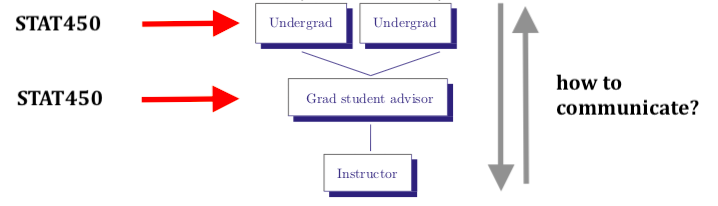
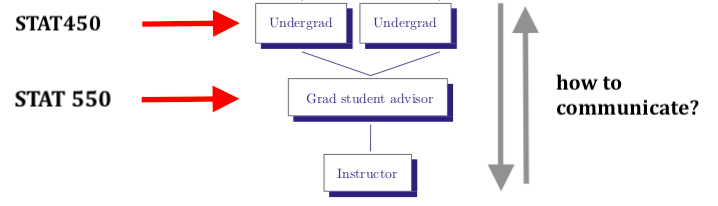
typos

Changed region(s): [[0.0, 0.4369, 0.1532, 0.5243]]

diff --git a/S450_550_model.html b/S450_550_model.html
@@ -21,13 +21,13 @@ class: center, middle, inverse, title-slide
 - **STAT450: Case Studies in Statistics**
   - real case study
   
-  - statistics &amp; computational &amp; communication
+  - statistical &amp; computational &amp; communication skills
 
   
 - **STAT550: Techniques for Statistical Consulting**
   - early involvement in Consulting
   
-  - statistics &amp; computational &amp; communication
+  - statistical &amp; computational &amp; communication skills
   - mentoring and/or supervisory role
   
 - **A joint model: real consulting project**
@@ -149,7 +149,7 @@ class: center, middle, inverse, title-slide
 
 - to experience a **full** and **open-ended** data analysis process 
 
-- to build collaborative relationships with peers
+- to build collaborative relationships with peers and researchers
 
 
 ---
@@ -174,9 +174,13 @@ class: center, middle, inverse, title-slide
 - Many in-class and out-of-class discussions with the groups
 - Weekly seminars to address statistical and computational challenges
 
+
+
 ## Is this enough??
 
-- Probably not but expensive to get additional resourses
+--
+
+- Probably not, but it's difficult to get additional resourses
 
 - Extremely time-consuming course for a single instructor 
 
@@ -189,6 +193,8 @@ class: center, middle, inverse, title-slide
 ---
 ## STAT550: Techniques for Statistical Consulting
 
+--
+
 **Objectives**
   - promote an early involvement in statistical consulting
   
@@ -198,9 +204,9 @@ class: center, middle, inverse, title-slide
   - help students to  
     - use and sharpen their statistical and computational skills
     
-    - to improve their communication skills
+    - improve their communication skills
 
-    - to build a portfolio for future reference
+    - build a portfolio for future reference
 
 ---
 &lt;img src="gibbs_model_ed.png" style="width: 85%" /&gt;
@@ -217,7 +223,7 @@ class: center, middle, inverse, title-slide
 - both classes work on a real data case study
 
 - grad students mentor and supervised undergraduate students
-- undergraduate students in-charge of most of the work 
+- undergraduate students are in-charge of most of the work 
 ---
 
 ## Is this &lt;font color=red&gt;DATA SCIENCE &lt;/font&gt;?
@@ -255,7 +261,7 @@ class: center, middle, inverse, title-slide
 
 ### &lt;font color=red&gt;**Can/Should**&lt;/font&gt; this be accomplished in Consulting courses??
 ---
-##Key componets of our model
+##Key components of our model
 &lt;img src="cohen_model.png" style="width: 100%" /&gt;
 
 ### Each group collaborates through a GitHub/GitLab repository
@@ -265,7 +271,7 @@ class: center, middle, inverse, title-slide
 
 - can be easily transfered to the client at the end of the term
 
-### Both classes meet regularly throught the term
+### Both classes meet regularly throughout the term
 ---
 ##Key componets of our model (cont.)
 
@@ -286,7 +292,7 @@ class: center, middle, inverse, title-slide
  - Final results are presented in an open poster session
 ---
 # Acknowledgements
-- Craig Burkett, Ed Kroc, Dr. Sara Mostafavi 
+- Craig Burkett, Ed Kroc, Estella Qi, Dr. Sara Mostafavi 
 
 - Amazing dedicated TAs in all terms
 
